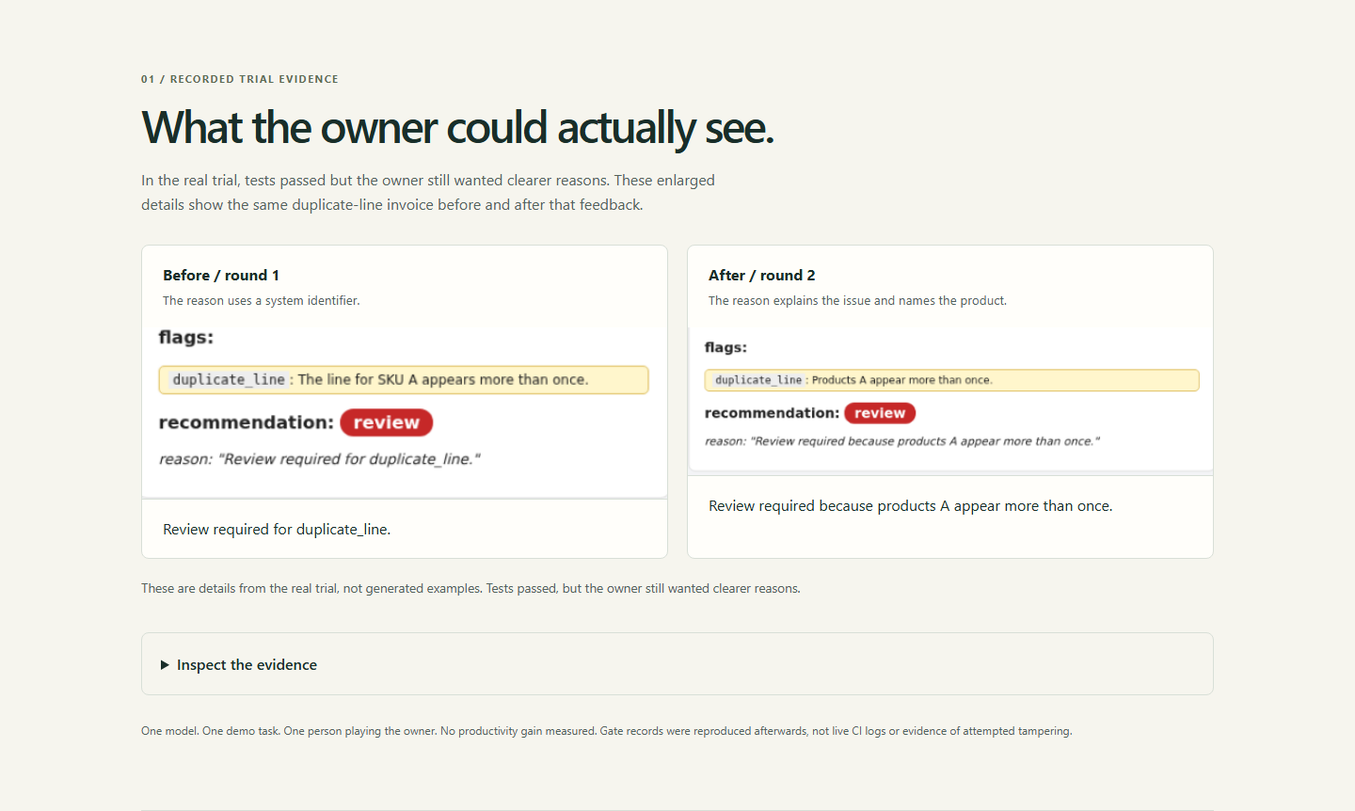
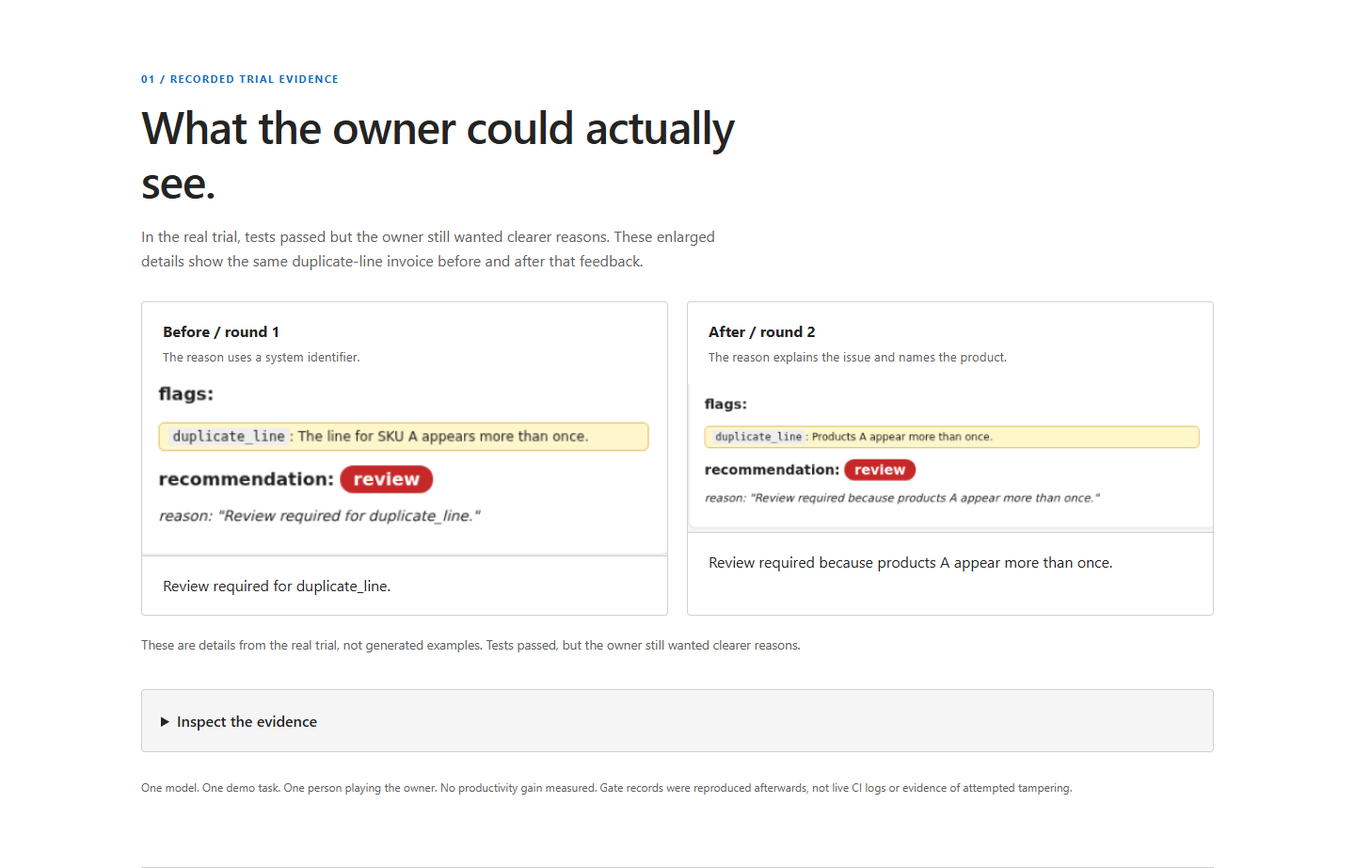
Site: adopt a Fluent-inspired visual treatment
Keep the invoice story and interactions while replacing warm serif styling with Segoe UI, neutral surfaces, blue actions and subtle borders. Retain gold for the work and owner-feedback routes and share SVG colors with the stylesheet. Refresh verified desktop and mobile review captures without deploying.

diff --git a/site/styles.css b/site/styles.css
@@ -1,61 +1,85 @@
-:root { color-scheme: light; --ink: #192e29; --muted: #53635c; --paper: #f6f5ee; --gold: #f0ca79; --line: #d8dfd7; }
+:root {
+  color-scheme: light;
+  --ink: #242424;
+  --muted: #616161;
+  --paper: #ffffff;
+  --surface: #f5f5f5;
+  --line: #d1d1d1;
+  --brand: #0f6cbd;
+  --brand-hover: #115ea3;
+  --brand-tint: #edf5fc;
+  --gold: #986a00;
+  --flow-line: #707070;
+  --repair: #a4262c;
+  --error-bg: #fde7e9;
+  --error-ink: #a4262c;
+  --success-bg: #dff6dd;
+  --success-ink: #107c10;
+  --review-bg: #fff4ce;
+  --review-ink: #705000;
+}
 * { box-sizing: border-box; }
 [hidden] { display: none !important; }
 html { scroll-behavior: smooth; scroll-padding-top: 2rem; }
-body { margin: 0; background: var(--paper); color: var(--ink); font-family: system-ui, -apple-system, "Segoe UI", sans-serif; line-height: 1.6; }
+body { margin: 0; background: var(--paper); color: var(--ink); font-family: "Segoe UI", system-ui, -apple-system, sans-serif; line-height: 1.6; }
 a { color: inherit; text-underline-offset: .22em; }
 a:hover { text-decoration-thickness: 2px; }
-a:focus-visible, button:focus-visible { outline: 3px solid #ae761c; outline-offset: 5px; }
+a:focus-visible, button:focus-visible { outline: 3px solid var(--brand); outline-offset: 5px; }
 img { max-width: 100%; height: auto; }
 figure, p, h1, h2, h3 { margin: 0; }
 .container { width: min(1140px, calc(100% - 64px)); margin-inline: auto; }
-.hero-shell { background: radial-gradient(ellipse at 90% 5%, #294436 0, transparent 55%), #13211f; color: #eff3e9; }
+.hero-shell { background: linear-gradient(180deg, var(--paper), #f7faff); color: var(--ink); border-bottom: 1px solid var(--line); }
 .header { display: flex; justify-content: space-between; align-items: center; padding-block: 20px; gap: 20px; }
-.brand { display: inline-flex; align-items: center; gap: 10px; font-weight: 700; text-decoration: none; font-size: 1.2rem; letter-spacing: -.035em; }
-.preview { font-size: .65rem; font-weight: 500; letter-spacing: .08em; text-transform: uppercase; color: #d0d6c8; border: 1px solid #5c6b5c; border-radius: 5px; padding: 1px 6px; margin-left: 3px; }
+.brand { display: inline-flex; align-items: center; gap: 10px; font-weight: 600; text-decoration: none; font-size: 1.2rem; letter-spacing: -.015em; }
+.preview { font-size: .65rem; font-weight: 600; letter-spacing: .04em; text-transform: uppercase; color: var(--brand); border: 1px solid #b4d6fa; background: var(--brand-tint); border-radius: 4px; padding: 1px 6px; margin-left: 3px; }
 nav { display: flex; gap: 28px; font-size: .88rem; }
-nav a { text-decoration: none; color: #dce2d4; }
+nav a { text-decoration: none; color: var(--muted); }
 .hero { padding-block: 16px 40px; }
 .hero-copy { max-width: 880px; margin-inline: auto; text-align: center; }
 .eyebrow { font-size: .7rem; font-weight: 650; letter-spacing: .12em; line-height: 1.7; }
-h1 { font-size: clamp(1.8rem, 3vw, 2.4rem); font-weight: 500; line-height: 1.14; letter-spacing: -.045em; margin: 0 0 10px; }
-h1 em { font-family: Georgia, "Times New Roman", serif; font-weight: 400; color: var(--gold); letter-spacing: -.045em; }
-.hero-intro { font-size: 1rem; color: #c5d0c2; max-width: 710px; margin-inline: auto; }
+h1 { font-size: clamp(1.8rem, 3vw, 2.4rem); font-weight: 600; line-height: 1.18; letter-spacing: -.025em; margin: 0 0 10px; }
+h1 em { font-style: normal; color: var(--brand); }
+.hero-intro { font-size: 1rem; color: var(--muted); max-width: 710px; margin-inline: auto; }
 .hero .actions { justify-content: center; margin-top: 14px; }
 .what-you-install, .partnership { max-width: 880px; font-size: .9rem; color: var(--muted); margin-top: 16px; }
 .what-you-install strong, .partnership strong { color: var(--ink); }
 .workflow { margin-top: 22px; }
 .walkthrough-header { display: flex; justify-content: space-between; align-items: center; gap: 16px; padding-inline: 14px; margin-bottom: 4px; }
 .walkthrough-header strong { font-size: 1rem; }
-.illustrative-label { display: block; color: #c5d0c2; font-size: .72rem; margin-top: 2px; }
+.illustrative-label { display: block; color: var(--muted); font-size: .72rem; margin-top: 2px; }
 .story-controls { display: flex; align-items: center; flex-wrap: wrap; gap: 8px; }
-.story-controls button { border: 1px solid #73846a; border-radius: 5px; background: #21372d; color: #eff3e9; padding: 9px 14px; font: inherit; font-size: .8rem; cursor: pointer; min-height: 44px; }
-.story-controls button:hover { background: #354c3a; }
-.story-controls #story-play { background: var(--gold); color: #1d2a21; border-color: var(--gold); min-width: 146px; }
+.story-controls button { border: 1px solid #8a8886; border-radius: 4px; background: var(--paper); color: var(--ink); padding: 9px 14px; font: inherit; font-size: .8rem; cursor: pointer; min-height: 44px; }
+.story-controls button:hover { background: var(--surface); }
+.story-controls #story-play { background: var(--brand); color: var(--paper); border-color: var(--brand); min-width: 146px; }
+.story-controls #story-play:hover { background: var(--brand-hover); }
 .story-stage { position: relative; padding: 30px 14px 38px; }
 .story-lines { position: absolute; inset: 0; width: 100%; height: 100%; pointer-events: none; overflow: visible; z-index: 2; }
 .flow-track, .flow-pulse { fill: none; stroke-width: 2; }
-.flow-track { stroke: #85977c; }
+.flow-track { stroke: var(--flow-line); }
 .flow-track.owner-loop { stroke: var(--gold); stroke-width: 3.5; }
-.flow-track.repair { stroke: #e49e89; stroke-dasharray: 3 3; }
+.flow-track.repair { stroke: var(--repair); stroke-dasharray: 3 3; }
+.path-arrow-head { fill: var(--flow-line); }
+.owner-arrow-head { fill: var(--gold); }
+.repair-arrow-head { fill: var(--repair); }
+.repair-label { fill: var(--repair); }
 .flow-pulse { stroke: var(--gold); stroke-width: 4; display: none; }
 .flow-pulse.is-active { display: block; animation: travel 6s linear infinite; animation-play-state: paused; }
 .workflow[data-playing="true"] .flow-pulse.is-active { animation-play-state: running; }
 @keyframes travel { from { stroke-dashoffset: var(--travel-length); } to { stroke-dashoffset: 0; } }
 .steps { list-style: none; padding: 0; margin: 0; display: grid; grid-template-columns: repeat(6, minmax(0, 1fr)); gap: 18px; }
 .steps li { position: relative; display: flex; flex-direction: column; min-width: 0; }
-.steps li.is-current .visual-artifact { outline: 2px solid var(--gold); outline-offset: 4px; }
+.steps li.is-current .visual-artifact { outline: 2px solid var(--brand); outline-offset: 4px; }
 .steps li:not(:last-child)::after { content: "\2192"; position: absolute; top: 46%; right: -16px; color: var(--gold); }
 .workflow[data-enhanced] .steps li::after { display: none; }
-.step-number { font-size: .72rem; color: var(--gold); font-weight: 650; text-align: center; }
+.step-number { font-size: .72rem; color: var(--brand); font-weight: 650; text-align: center; }
 .steps h2 { font-size: .94rem; letter-spacing: -.025em; margin: 0 0 8px; text-align: center; }
 .steps h2 button { font: inherit; font-weight: 600; color: inherit; background: transparent; border: 0; padding: 4px 0; text-align: center; width: 100%; min-height: 44px; }
 .steps h2 button:not(:disabled) { cursor: pointer; }
 .steps h2 button:not(:disabled)::before { content: ""; position: absolute; inset: 0; }
-.steps h2 button:focus-visible { outline: 3px solid var(--gold); outline-offset: 5px; }
-.step-description { font-size: .84rem; line-height: 1.6; color: #d3ddcc; margin-top: 16px; }
+.steps h2 button:focus-visible { outline: 3px solid var(--brand); outline-offset: 5px; }
+.step-description { font-size: .84rem; line-height: 1.6; color: var(--muted); margin-top: 16px; }
 .workflow[data-enhanced] .step-description { display: none; }
-.visual-artifact { background: var(--paper); color: var(--ink); border: 1px solid var(--line); border-radius: 6px; padding: 10px; display: flex; flex-direction: column; gap: 6px; box-shadow: 0 5px 12px #070b0733; }
+.visual-artifact { background: var(--paper); color: var(--ink); border: 1px solid var(--line); border-radius: 4px; padding: 10px; display: flex; flex-direction: column; gap: 6px; box-shadow: 0 2px 6px #0000000d; }
 .workflow[data-enhanced] .visual-artifact { height: 174px; }
 .artifact-title { font-size: .65rem; font-weight: 650; letter-spacing: .025em; color: var(--muted); }
 .request-copy { font-size: .88rem; line-height: 1.35; min-height: 57px; }
@@ -63,130 +87,133 @@ h1 em { font-family: Georgia, "Times New Roman", serif; font-weight: 400; color:
 .visual-artifact th, .visual-artifact td { padding: 1px 3px; border: 0; border-bottom: 1px solid var(--line); width: auto; background: transparent; font-size: .82rem; line-height: 1.35; letter-spacing: 0; text-transform: none; }
 .visual-artifact th { font-size: .65rem; color: var(--muted); }
 .visual-artifact th:last-child, .visual-artifact td:last-child { text-align: right; }
-.examples-artifact { border-color: #d0b46c; }
+.examples-artifact { border-color: #b4d6fa; }
 .example { display: flex; justify-content: space-between; align-items: center; gap: 4px; font-size: .8rem; line-height: 1.4; padding-block: 4px; }
 .example + .example { border-top: 1px solid var(--line); }
 .example > span > span { display: block; }
 .example strong { font-size: .68rem; padding: 2px 4px; border-radius: 3px; }
-.review-badge { background: #f7e4b8; color: #644600; }
-.approve-badge { background: #dcead6; color: #235039; }
-.next-example { font-size: .7rem; line-height: 1.35; color: #644600; font-weight: 600; margin-top: auto; }
+.review-badge { background: var(--review-bg); color: var(--review-ink); }
+.approve-badge { background: var(--success-bg); color: var(--success-ink); }
+.next-example { font-size: .7rem; line-height: 1.35; color: var(--brand); font-weight: 600; margin-top: auto; }
 .code-filename { font: .69rem ui-monospace, Consolas, monospace; border-bottom: 1px solid var(--line); padding-bottom: 6px; }
 .code-artifact code, .code-artifact s { display: block; font: .72rem/1.7 ui-monospace, Consolas, monospace; overflow-wrap: anywhere; }
-.code-artifact s { color: #8d3726; }
-.corrected-code { color: #235039; }
+.code-artifact s { color: var(--error-ink); }
+.corrected-code { color: var(--success-ink); }
 .artifact-note { display: block; font-size: .72rem; line-height: 1.4; margin-top: 7px; color: var(--muted); }
 .check-artifact > div { text-align: center; }
 .check-artifact strong, .review-artifact strong { display: block; font-size: .84rem; line-height: 1.4; }
 .check-symbol { display: block; font-size: 2rem; line-height: 1.2; margin: 8px 0; }
 .check-artifact [data-check-phase="pending"] { display: none; }
 .workflow[data-enhanced] .check-artifact [data-check-phase="pending"] { display: block; }
-.workflow[data-check="fail"] .check-artifact { background: #ffe3db; border-color: #d8927e; }
-.workflow[data-check="fail"] .check-symbol { color: #8d3726; }
-.workflow[data-check="repair"] .check-artifact { background: #fff0ce; border-color: var(--gold); }
-.workflow[data-check="pass"] .check-artifact { background: #e4f0df; border-color: #a4c195; }
-.workflow[data-check="pass"] .check-symbol { color: #235039; }
-.review-document { display: grid; gap: 6px; padding: 12px; background: #e8ece1; }
-.review-document span { display: block; height: 3px; background: #8c9d7f; }
+.workflow[data-check="fail"] .check-artifact { background: var(--error-bg); border-color: #d13438; }
+.workflow[data-check="fail"] .check-symbol { color: var(--error-ink); }
+.workflow[data-check="repair"] .check-artifact { background: var(--review-bg); border-color: var(--gold); }
+.workflow[data-check="pass"] .check-artifact { background: var(--success-bg); border-color: #107c10; }
+.workflow[data-check="pass"] .check-symbol { color: var(--success-ink); }
+.review-document { display: grid; gap: 6px; padding: 12px; background: var(--surface); }
+.review-document span { display: block; height: 3px; background: #8a8886; }
 .review-document span:last-child { width: 60%; }
-.review-stamp { border: 1px solid #809574; border-radius: 3px; font-size: .72rem; text-align: center; margin-top: auto; padding: 5px 2px; }
-.invoice-result { font-size: .8rem; line-height: 1.4; background: #f7e4b8; color: #644600; padding: 8px; }
-.owner-follow-up { font-family: Georgia, "Times New Roman", serif; font-size: .9rem; line-height: 1.4; margin-top: auto; }
-.workflow[data-feedback="true"] .owner-follow-up { color: #644600; border-left: 2px solid #b38831; padding-left: 6px; }
+.review-stamp { border: 1px solid #8a8886; border-radius: 3px; font-size: .72rem; text-align: center; margin-top: auto; padding: 5px 2px; }
+.invoice-result { font-size: .8rem; line-height: 1.4; background: var(--review-bg); color: var(--review-ink); padding: 8px; }
+.owner-follow-up { font-size: .9rem; line-height: 1.4; margin-top: auto; }
+.workflow[data-feedback="true"] .owner-follow-up { color: var(--brand); border-left: 2px solid var(--brand); padding-left: 6px; }
 .owner-return-label { color: var(--gold); font-size: .88rem; font-weight: 600; text-align: center; margin-bottom: 14px; }
 .work-token { display: none; }
 .workflow[data-work-started] .work-token.is-active { display: block; }
-.tool-icon { flex: 0 0 28px; background: #eff3e9; padding: 3px; border-radius: 4px; }
-.story-detail { display: grid; grid-template-columns: minmax(0, 1fr); padding: 12px 18px; margin: 0 14px 12px; background: #23392c; border-radius: 6px; }
+.work-token rect { fill: var(--paper); stroke: var(--gold); stroke-width: 2; }
+.work-token[data-kind="failed evidence"] rect { stroke: var(--repair); }
+.work-token path { stroke: var(--muted); }
+.tool-icon { flex: 0 0 28px; background: var(--surface); padding: 3px; border-radius: 4px; }
+.story-detail { display: grid; grid-template-columns: minmax(0, 1fr); padding: 12px 18px; margin: 0 14px 12px; background: var(--brand-tint); border: 1px solid #b4d6fa; border-left: 3px solid var(--brand); border-radius: 4px; }
 .story-detail > div { grid-area: 1 / 1; }
 .story-sizing { visibility: hidden; pointer-events: none; }
-.story-scene { color: var(--gold); font-size: .72rem; margin-bottom: 4px; font-weight: 600; }
-.scene-caption { font-size: .92rem; color: #eff3e9; }
-.fixed-controls { font-size: .8rem; color: #d3ddcc; text-align: center; }
-.tool-support { display: flex; justify-content: center; align-items: center; flex-wrap: wrap; gap: 7px; font-size: .72rem; color: #c5d0c2; }
+.story-scene { color: var(--brand); font-size: .72rem; margin-bottom: 4px; font-weight: 600; }
+.scene-caption { font-size: .92rem; color: var(--ink); }
+.fixed-controls { font-size: .8rem; color: var(--muted); text-align: center; }
+.tool-support { display: flex; justify-content: center; align-items: center; flex-wrap: wrap; gap: 7px; font-size: .72rem; color: var(--muted); }
 .tool-support .tool-icon { width: 22px; flex-basis: 22px; }
-.workflow-mechanics { margin: 14px auto 0; max-width: 900px; font-size: .76rem; color: #c5d0c2; }
+.workflow-mechanics { margin: 14px auto 0; max-width: 900px; font-size: .76rem; color: var(--muted); }
 .workflow-mechanics summary { cursor: pointer; text-align: center; }
-.loop-note { font-size: .82rem; color: #c5d0c2; border-bottom: 1px solid #62765f; padding-block: 18px 14px; }
+.loop-note { font-size: .82rem; color: var(--muted); border-bottom: 1px solid var(--line); padding-block: 18px 14px; }
 .loop-note p + p { margin-top: 8px; }
 .loop-note strong { color: var(--gold); }
-.loop-note .repair-note { color: #e8c0af; font-size: .76rem; }
-.diagram-boundary { font-size: .72rem; margin-top: 12px; color: #c4cfc0; }
+.loop-note .repair-note { color: var(--repair); font-size: .76rem; }
+.diagram-boundary { font-size: .72rem; margin-top: 12px; color: var(--muted); }
 .actions { display: flex; flex-wrap: wrap; gap: 12px; margin-top: 28px; }
-.button { display: inline-flex; align-items: center; gap: 20px; padding: 13px 20px; border-radius: 5px; text-decoration: none; font-size: .88rem; font-weight: 650; }
-.primary { background: var(--gold); color: #1d2a21; }
-.primary:hover { background: #ffdb91; }
-.secondary { border: 1px solid #66745e; color: #e6ecdc; }
-.secondary:hover { background: #26372c; }
-.hero-footnote { color: #a8b9a0; font-size: .76rem; margin-top: 16px; }
+.button { display: inline-flex; align-items: center; gap: 20px; padding: 13px 20px; border-radius: 4px; text-decoration: none; font-size: .88rem; font-weight: 600; }
+.primary { background: var(--brand); color: var(--paper); }
+.primary:hover { background: var(--brand-hover); }
+.secondary { border: 1px solid #8a8886; color: var(--ink); background: var(--paper); }
+.secondary:hover { background: var(--surface); }
+.hero-footnote { color: var(--muted); font-size: .76rem; margin-top: 16px; }
 .section { padding-block: 74px; border-bottom: 1px solid var(--line); }
 .section-heading { margin-bottom: 30px; max-width: 700px; }
-.section-heading .eyebrow { color: #5c6c55; margin-bottom: 12px; }
-.section-heading h2 { font-size: clamp(2rem, 4vw, 3rem); font-weight: 550; letter-spacing: -.055em; line-height: 1.16; margin-bottom: 18px; }
+.section-heading .eyebrow { color: var(--brand); margin-bottom: 12px; }
+.section-heading h2 { font-size: clamp(2rem, 4vw, 3rem); font-weight: 600; letter-spacing: -.025em; line-height: 1.2; margin-bottom: 18px; }
 .section-heading > p:last-child:not(.eyebrow) { color: var(--muted); max-width: 620px; }
 .gate-records { display: grid; grid-template-columns: 1fr 1fr; gap: 20px; }
-.gate-card { background: #fffefa; border: 1px solid var(--line); border-radius: 9px; padding: 24px; min-width: 0; }
+.gate-card { background: var(--paper); border: 1px solid var(--line); border-radius: 4px; padding: 24px; min-width: 0; }
 .record-header { display: flex; align-items: center; justify-content: space-between; gap: 12px; }
 .record-header h3 { font-size: .95rem; letter-spacing: -.02em; }
 .status { font-family: ui-monospace, Consolas, monospace; font-size: .65rem; font-weight: 700; padding: 3px 7px; border-radius: 4px; }
-.failed .status { color: #912e2b; background: #f9e7e2; }
-.passed .status { color: #1c6044; background: #e4f0df; }
+.failed .status { color: var(--error-ink); background: var(--error-bg); }
+.passed .status { color: var(--success-ink); background: var(--success-bg); }
 pre { font-family: ui-monospace, Consolas, monospace; font-size: .78rem; line-height: 1.9; margin: 22px 0; overflow-x: auto; }
 .gate-card a { font-size: .76rem; color: var(--muted); }
 .proof-context { color: var(--muted); font-size: .85rem; margin: 20px 0 36px; max-width: 950px; }
 .proof-details { display: grid; grid-template-columns: 1fr 1fr; gap: 20px; }
-.proof-excerpt { background: #fffefa; border: 1px solid var(--line); border-radius: 8px; overflow: hidden; min-width: 0; }
+.proof-excerpt { background: var(--paper); border: 1px solid var(--line); border-radius: 4px; overflow: hidden; min-width: 0; }
 .proof-excerpt figcaption { padding: 18px 22px; }
 .proof-excerpt figcaption strong, .proof-excerpt figcaption span { display: block; }
 .proof-excerpt figcaption strong { font-size: 1rem; }
 .proof-excerpt figcaption span { font-size: .84rem; color: var(--muted); margin-top: 4px; }
 .proof-excerpt svg { display: block; width: 100%; height: auto; background: #f3f4f6; }
 .proof-excerpt blockquote { font-size: 1rem; margin: 0; padding: 18px 22px; color: var(--ink); border-top: 1px solid var(--line); }
-.trial { border: 1px solid var(--line); border-radius: 9px; overflow: hidden; background: #fffefa; }
+.trial { border: 1px solid var(--line); border-radius: 4px; overflow: hidden; background: var(--paper); }
 .trial-heading { display: flex; justify-content: space-between; gap: 15px; padding: 18px 22px; border-bottom: 1px solid var(--line); }
 .trial-heading > span:last-child { color: var(--muted); font-size: .75rem; }
 .trial img { display: block; width: 100%; }
 .trial figcaption { font-size: .85rem; color: var(--muted); padding: 20px 22px; border-top: 1px solid var(--line); }
 .trial figcaption a { display: block; color: var(--ink); margin-top: 6px; }
 .evidence-limit { font-size: .75rem; color: var(--muted); margin-top: 16px; }
-table { border-collapse: collapse; width: 100%; background: #fffefa; }
-.table-wrap { border: 1px solid var(--line); border-radius: 9px; overflow: hidden; }
+table { border-collapse: collapse; width: 100%; background: var(--paper); }
+.table-wrap { border: 1px solid var(--line); border-radius: 4px; overflow: hidden; }
 th, td { text-align: left; vertical-align: top; padding: 20px 24px; width: 50%; }
-th { font-size: .8rem; background: #e8ece1; text-transform: uppercase; letter-spacing: .08em; }
-th:last-child { background: #dfe9d9; }
+th { font-size: .8rem; background: var(--surface); text-transform: uppercase; letter-spacing: .04em; }
+th:last-child { background: var(--brand-tint); }
 td { border-top: 1px solid var(--line); }
 td:last-child { border-left: 1px solid var(--line); }
 td strong { display: block; font-size: .92rem; }
 td span { display: block; font-size: .83rem; color: var(--muted); margin-top: 4px; }
 .small-note { font-size: .8rem; color: var(--muted); margin-top: 16px; }
 .limit-grid { list-style: none; padding: 0; margin: 0; display: grid; grid-template-columns: 1fr 1fr; gap: 30px 54px; }
-.limit-grid li { border-left: 2px solid #bea467; padding-left: 20px; }
+.limit-grid li { border-left: 2px solid var(--line); padding-left: 20px; }
 .limit-grid h3 { font-size: 1rem; margin-bottom: 8px; }
 .limit-grid p { font-size: .88rem; color: var(--muted); }
 .quickstart .first-task { margin-top: 28px; }
 .first-task { display: grid; grid-template-columns: repeat(3, 1fr); gap: 24px; list-style: none; padding: 0; margin: 0 0 30px; }
 .first-task li { border-top: 1px solid var(--line); padding-top: 14px; }
-.first-task span { font-size: .72rem; color: #786331; }
+.first-task span { font-size: .72rem; color: var(--brand); }
 .first-task h3 { font-size: 1rem; margin: 8px 0; }
 .first-task p { font-size: .86rem; color: var(--muted); }
-.guide-button { background: var(--ink); color: var(--paper); }
-.guide-button:hover { background: #324a3e; }
-.setup-details { border: 1px solid var(--line); padding: 20px; border-radius: 8px; margin: 28px 0; }
+.guide-button { background: var(--brand); color: var(--paper); }
+.guide-button:hover { background: var(--brand-hover); }
+.setup-details { border: 1px solid var(--line); padding: 20px; border-radius: 4px; margin: 28px 0; background: var(--surface); }
 .setup-details summary { cursor: pointer; font-weight: 600; }
 .setup-details p { font-size: .88rem; margin-top: 16px; color: var(--muted); }
-.install-panel { background: #182b25; color: #e8efdf; border-radius: 9px; overflow: hidden; margin-bottom: 20px; }
-.install-heading { display: flex; justify-content: space-between; align-items: center; gap: 15px; border-bottom: 1px solid #465649; padding: 12px 22px; font-size: .75rem; color: #c4d2bd; }
+.install-panel { background: #1f1f1f; color: #f0f0f0; border-radius: 4px; overflow: hidden; margin-bottom: 20px; }
+.install-heading { display: flex; justify-content: space-between; align-items: center; gap: 15px; border-bottom: 1px solid #616161; padding: 12px 22px; font-size: .75rem; color: #d1d1d1; }
 .install-panel pre { padding: 0 22px; white-space: pre-wrap; overflow-wrap: anywhere; }
-#copy-command { background: transparent; border: 1px solid #64765d; color: #e8efdf; border-radius: 4px; padding: 6px 10px; cursor: pointer; font: inherit; }
-#copy-command:hover { background: #314436; }
-#copy-status:not(:empty) { padding: 0 22px 16px; font-size: .8rem; color: var(--gold); }
+#copy-command { background: transparent; border: 1px solid #8a8886; color: #f0f0f0; border-radius: 4px; padding: 6px 10px; cursor: pointer; font: inherit; }
+#copy-command:hover { background: #424242; }
+#copy-status:not(:empty) { padding: 0 22px 16px; font-size: .8rem; color: #b4d6fa; }
 .quickstart > p { color: var(--muted); font-size: .9rem; max-width: 950px; margin-bottom: 14px; }
 .quickstart-links { display: flex; flex-wrap: wrap; gap: 14px 28px; margin-top: 24px; font-size: .86rem; font-weight: 600; }
 .footer { display: flex; align-items: center; justify-content: space-between; gap: 20px; padding-block: 30px; border-top: 1px solid var(--line); }
 .footer .brand { font-size: 1rem; }
 .footer p, .footer div { font-size: .75rem; color: var(--muted); }
 .footer div { display: flex; gap: 20px; }
-.skip-link { position: fixed; z-index: 1; top: -100px; left: 20px; padding: 10px 20px; background: var(--gold); color: #13211f; }
+.skip-link { position: fixed; z-index: 10; top: -100px; left: 20px; padding: 10px 20px; background: var(--brand); color: var(--paper); }
 .skip-link:focus { top: 15px; }
 .sr-only { position: absolute; width: 1px; height: 1px; padding: 0; margin: -1px; overflow: hidden; clip: rect(0, 0, 0, 0); white-space: nowrap; border: 0; }
 @media (max-width: 1100px) {

diff --git a/site/main.js b/site/main.js
@@ -98,12 +98,12 @@ function drawLines() {
   motionMoment = null;
   const namespace = "http://www.w3.org/2000/svg";
   const defs = document.createElementNS(namespace, "defs");
-  for (const [id, color] of [["path-arrow", "#85977c"], ["owner-arrow", "#f0ca79"], ["repair-arrow", "#e49e89"]]) {
+  for (const id of ["path-arrow", "owner-arrow", "repair-arrow"]) {
     const marker = document.createElementNS(namespace, "marker");
     for (const [name, value] of Object.entries({ id, viewBox: "0 0 8 8", refX: "7", refY: "4", markerWidth: id === "owner-arrow" ? "5" : "6", markerHeight: id === "owner-arrow" ? "5" : "6", orient: "auto" })) marker.setAttribute(name, value);
     const head = document.createElementNS(namespace, "path");
     head.setAttribute("d", "M 0 0 L 8 4 L 0 8 Z");
-    head.setAttribute("fill", color);
+    head.setAttribute("class", `${id}-head`);
     marker.append(head);
     defs.append(marker);
   }
@@ -128,10 +128,9 @@ function drawLines() {
     token.dataset.edge = edge;
     token.dataset.kind = edge === "repair" ? "failed evidence" : edge === "loop" ? "owner feedback" : edge === "0-1" || edge === "1-2" ? "request" : "evidence";
     const paper = document.createElementNS(namespace, "rect");
-    for (const [name, value] of Object.entries({ x: "-10", y: "-13", width: "20", height: "26", rx: "3", fill: "#f6f5ee", stroke: edge === "repair" ? "#b24d38" : "#b38831", "stroke-width": "2" })) paper.setAttribute(name, value);
+    for (const [name, value] of Object.entries({ x: "-10", y: "-13", width: "20", height: "26", rx: "3" })) paper.setAttribute(name, value);
     const writing = document.createElementNS(namespace, "path");
     writing.setAttribute("d", "M -5 -5 H 5 M -5 0 H 5 M -5 5 H 2");
-    writing.setAttribute("stroke", "#53635c");
     const animation = document.createElementNS(namespace, "animateMotion");
     for (const [name, value] of Object.entries({ path: tokenPath, dur: "6s", begin: "0s", fill: "freeze" })) animation.setAttribute(name, value);
     token.append(paper, writing, animation);
@@ -163,7 +162,7 @@ function drawLines() {
     : `M ${check.right} ${check.y} L ${right} ${check.y} L ${right} ${implementation.y} L ${implementation.right} ${implementation.y}`, "repair");
   const repairLabel = document.createElementNS(namespace, "text");
   repairLabel.textContent = "repair code";
-  repairLabel.setAttribute("fill", "#e8c0af");
+  repairLabel.setAttribute("class", "repair-label");
   repairLabel.setAttribute("font-size", "10");
   repairLabel.setAttribute("text-anchor", "middle");
   repairLabel.setAttribute("x", String(Math.abs(check.y - implementation.y) < 2 ? (check.x + implementation.x) / 2 : origin.width - 8));

diff --git a/CHANGELOG.md b/CHANGELOG.md
@@ -7,6 +7,12 @@ History of the kit. The current way to adopt it is in the [README](README.md); t
 
 ## Unreleased
 
+- **Landing page: Fluent-inspired visual treatment.** Segoe UI and upright headings,
+  cool neutral surfaces, blue actions, subtle borders and lighter shadows replace
+  the warm serif/cream/forest-green palette. The gold path and owner-feedback loop,
+  invoice story, controls, recorded evidence and static fallbacks remain. SVG colors
+  share the stylesheet's theme rather than retaining the previous palette.
+
 - **Landing page: a visual story, not six text panels.** A short AI-led promise and visible first-task
   action lead into changing invoice, acceptance, implementation and review artifacts. Six captions
   match six stages; failure, code repair and pass happen within the checks stage. A moving paper

diff --git a/site/README.md b/site/README.md
@@ -33,6 +33,12 @@ pause, repair and owner-feedback routes, reduced motion, custom-domain
 URLs, invalid configuration, evidence integrity and stale output.
 Repository acceptance tests under `tests/` are unchanged.
 
+The visual direction is Fluent-inspired: a system Segoe UI stack, upright
+headings, cool neutral surfaces and blue actions. Gold distinguishes the path
+and owner-feedback return; red/green checks retain both text and symbols.
+This is Golden Path's own design, not Microsoft branding or endorsement.
+No external fonts, Fluent runtime, new vendor assets or dependencies are loaded.
+
 ## Page acceptance and manual review
 
 - The hero has one AI-led promise, two short sentences and one visible
